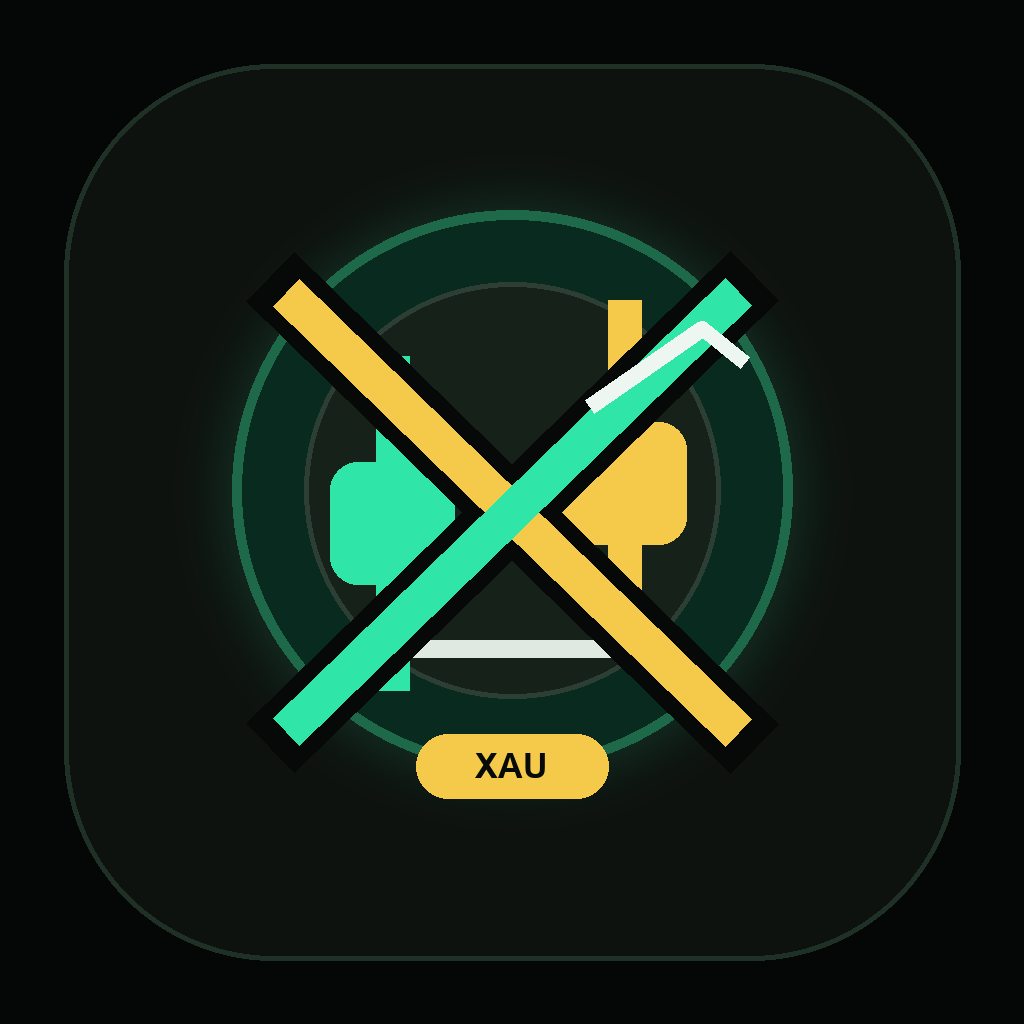
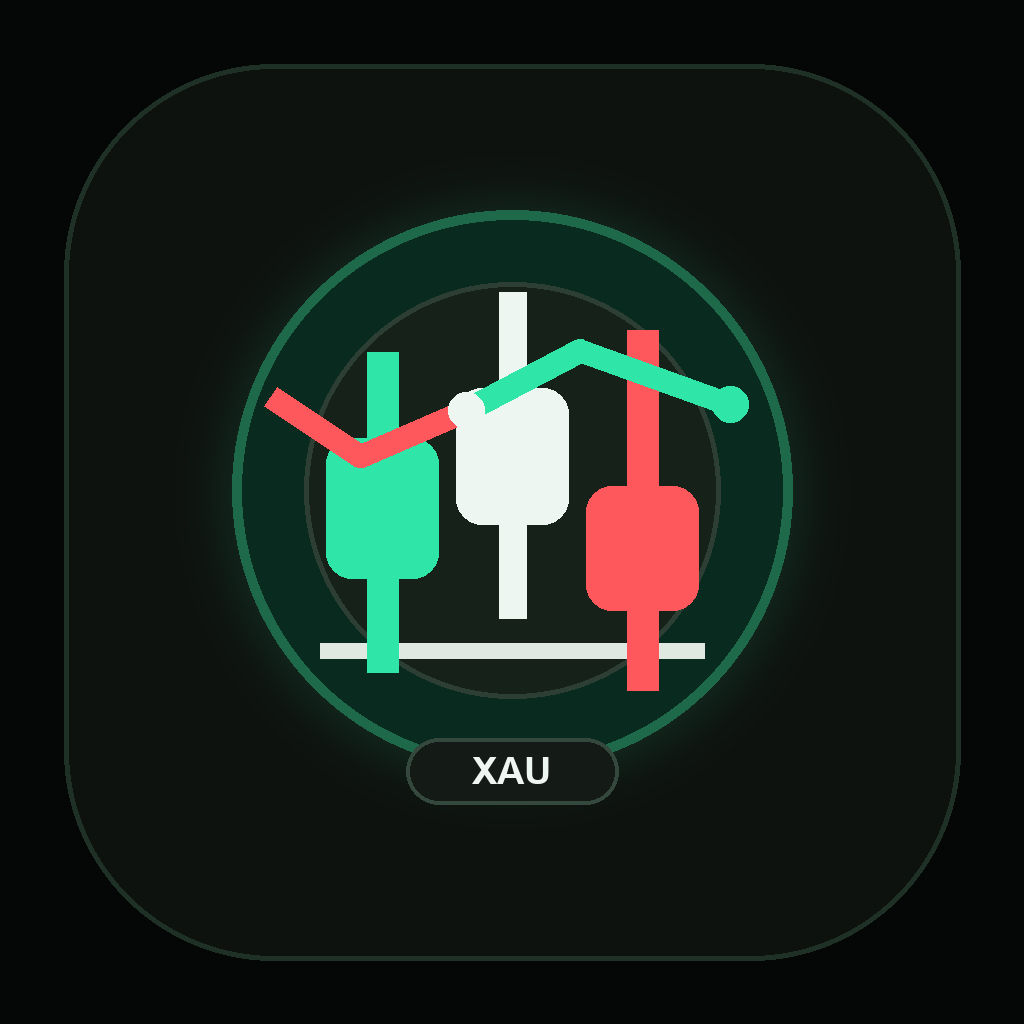
refine mobile assets without cross mark

Changed region(s): [[0.25, 0.25, 0.75, 0.75], [0.375, 0.7188, 0.625, 0.8125]]

diff --git a/scripts/generate-mobile-brand-assets.py b/scripts/generate-mobile-brand-assets.py
@@ -12,6 +12,8 @@ PANEL = (14, 18, 15, 255)
 PANEL_2 = (18, 25, 20, 255)
 GREEN = (47, 230, 168, 255)
 GREEN_DARK = (24, 117, 87, 255)
+RED = (255, 88, 92, 255)
+RED_DARK = (130, 38, 42, 255)
 GOLD = (245, 201, 74, 255)
 WHITE = (238, 246, 241, 255)
 MUTED = (128, 144, 136, 255)
@@ -48,31 +50,32 @@ def make_mark(size: int, transparent: bool = False) -> Image.Image:
 
     glow = Image.new("RGBA", (size, size), (0, 0, 0, 0))
     glow_draw = ImageDraw.Draw(glow)
-    glow_draw.ellipse((s(210), s(190), s(814), s(794)), fill=(47, 230, 168, 48))
-    glow_draw.ellipse((s(300), s(270), s(724), s(694)), fill=(245, 201, 74, 35))
+    glow_draw.ellipse((s(210), s(190), s(814), s(794)), fill=(47, 230, 168, 42))
+    glow_draw.ellipse((s(300), s(270), s(724), s(694)), fill=(255, 88, 92, 30))
     image.alpha_composite(glow.filter(ImageFilter.GaussianBlur(s(36))))
 
     draw = ImageDraw.Draw(image)
     draw.ellipse((s(232), s(210), s(792), s(770)), fill=(8, 42, 31, 255), outline=(31, 105, 75, 255), width=s(10))
     draw.ellipse((s(304), s(282), s(720), s(698)), fill=(22, 33, 26, 255), outline=(45, 62, 52, 255), width=s(5))
 
-    # Candlestick base, clean and non-bird-like.
-    draw.line((s(352), s(648), s(672), s(648)), fill=(224, 232, 226, 255), width=s(18))
-    draw.line((s(392), s(356), s(392), s(690)), fill=GREEN, width=s(34))
-    rounded_rect(draw, (s(330), s(462), s(454), s(584)), s(28), fill=GREEN)
-    draw.line((s(624), s(300), s(624), s(640)), fill=GOLD, width=s(34))
-    rounded_rect(draw, (s(562), s(422), s(686), s(544)), s(28), fill=GOLD)
+    # Candlestick badge, clean and non-bird-like.
+    draw.line((s(320), s(650), s(704), s(650)), fill=(224, 232, 226, 255), width=s(16))
+    draw.line((s(382), s(352), s(382), s(672)), fill=GREEN, width=s(32))
+    rounded_rect(draw, (s(326), s(438), s(438), s(578)), s(26), fill=GREEN)
+    draw.line((s(512), s(292), s(512), s(618)), fill=WHITE, width=s(28))
+    rounded_rect(draw, (s(456), s(388), s(568), s(524)), s(26), fill=WHITE)
+    draw.line((s(642), s(330), s(642), s(690)), fill=RED, width=s(32))
+    rounded_rect(draw, (s(586), s(486), s(698), s(610)), s(26), fill=RED)
 
-    # FX monogram: strong X with a compact upward price stroke.
-    draw.line((s(270), s(276), s(754), s(748)), fill=(7, 9, 8, 255), width=s(70))
-    draw.line((s(754), s(276), s(270), s(748)), fill=(7, 9, 8, 255), width=s(70))
-    draw.line((s(286), s(292), s(738), s(732)), fill=GOLD, width=s(38))
-    draw.line((s(738), s(292), s(286), s(732)), fill=GREEN, width=s(38))
-    draw.line((s(590), s(406), s(702), s(328), s(744), s(362)), fill=WHITE, width=s(16), joint="curve")
+    # Market movement line: green recovery after a red dip.
+    draw.line((s(270), s(396), s(360), s(456), s(466), s(410)), fill=RED, width=s(24), joint="curve")
+    draw.line((s(466), s(410), s(580), s(350), s(730), s(404)), fill=GREEN, width=s(24), joint="curve")
+    draw.ellipse((s(448), s(392), s(484), s(428)), fill=WHITE)
+    draw.ellipse((s(712), s(386), s(748), s(422)), fill=GREEN)
 
-    # Small gold badge suggests XAU without text clutter in launcher.
-    rounded_rect(draw, (s(416), s(734), s(608), s(798)), s(32), fill=(245, 201, 74, 255))
-    draw.text((s(512), s(766)), "XAU", fill=(6, 11, 8, 255), font=font(s(34), True), anchor="mm")
+    # Compact XAU label under the candle group.
+    rounded_rect(draw, (s(406), s(738), s(618), s(804)), s(33), fill=(20, 26, 22, 255), outline=(52, 72, 61, 255), width=s(4))
+    draw.text((s(512), s(771)), "XAU", fill=WHITE, font=font(s(38), True), anchor="mm")
 
     return image
 
@@ -85,7 +88,8 @@ def make_logo() -> Image.Image:
     draw.text((260, 72), "XAUUSD", fill=WHITE, font=font(68, True), anchor="la")
     draw.text((260, 142), "SIGNAL", fill=GREEN, font=font(42, True), anchor="la")
     draw.line((260, 200, 705, 200), fill=(48, 66, 56, 255), width=3)
-    draw.line((260, 200, 470, 200), fill=GOLD, width=5)
+    draw.line((260, 200, 365, 200), fill=GREEN, width=5)
+    draw.line((368, 200, 470, 200), fill=RED, width=5)
     draw.text((260, 222), "NY SESSION INDICATORS", fill=MUTED, font=font(22, True), anchor="la")
     return image
 
@@ -94,8 +98,8 @@ def make_splash() -> Image.Image:
     image = Image.new("RGBA", (1242, 2436), BG)
     glow = Image.new("RGBA", image.size, (0, 0, 0, 0))
     glow_draw = ImageDraw.Draw(glow)
-    glow_draw.ellipse((170, 570, 1072, 1472), fill=(47, 230, 168, 40))
-    glow_draw.ellipse((335, 730, 907, 1302), fill=(245, 201, 74, 26))
+    glow_draw.ellipse((170, 570, 1072, 1472), fill=(47, 230, 168, 36))
+    glow_draw.ellipse((335, 730, 907, 1302), fill=(255, 88, 92, 24))
     image.alpha_composite(glow.filter(ImageFilter.GaussianBlur(70)))
     mark = make_mark(520, transparent=True)
     image.alpha_composite(mark, ((1242 - 520) // 2, 740))
